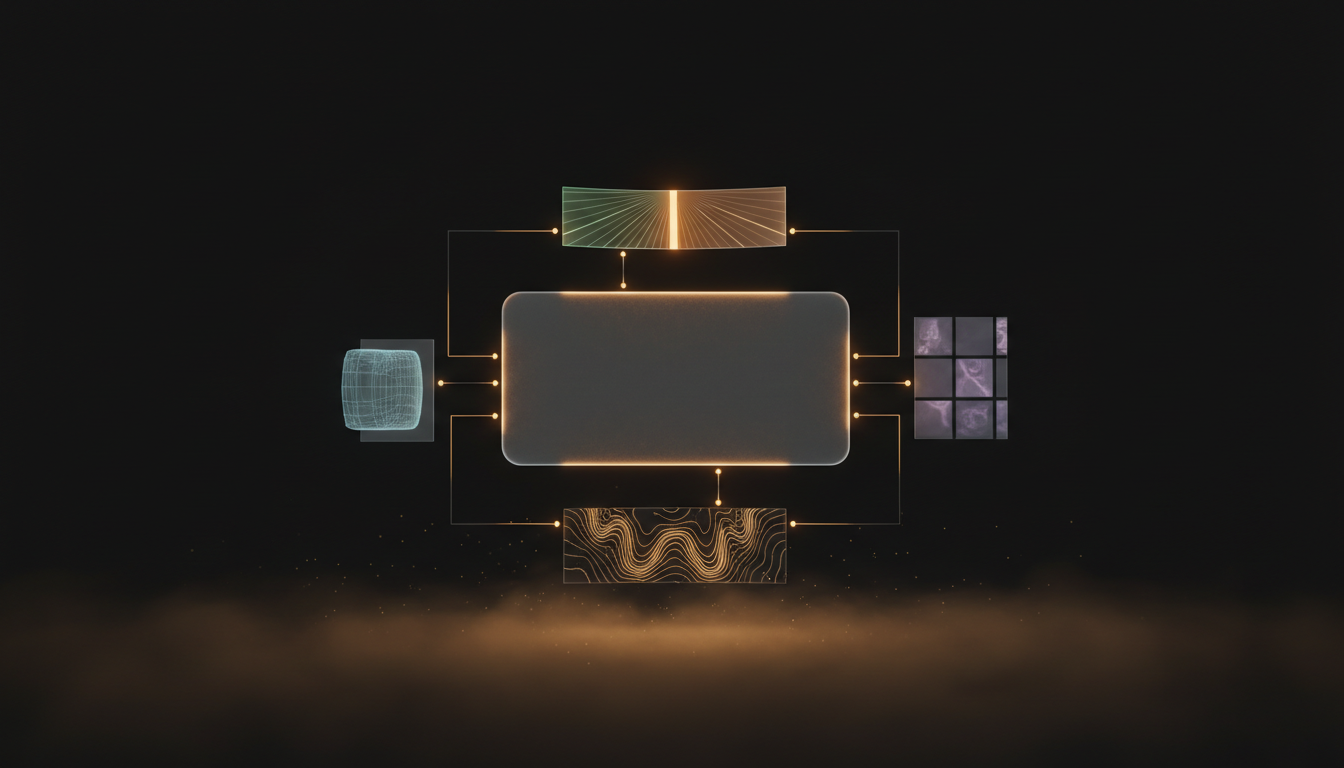
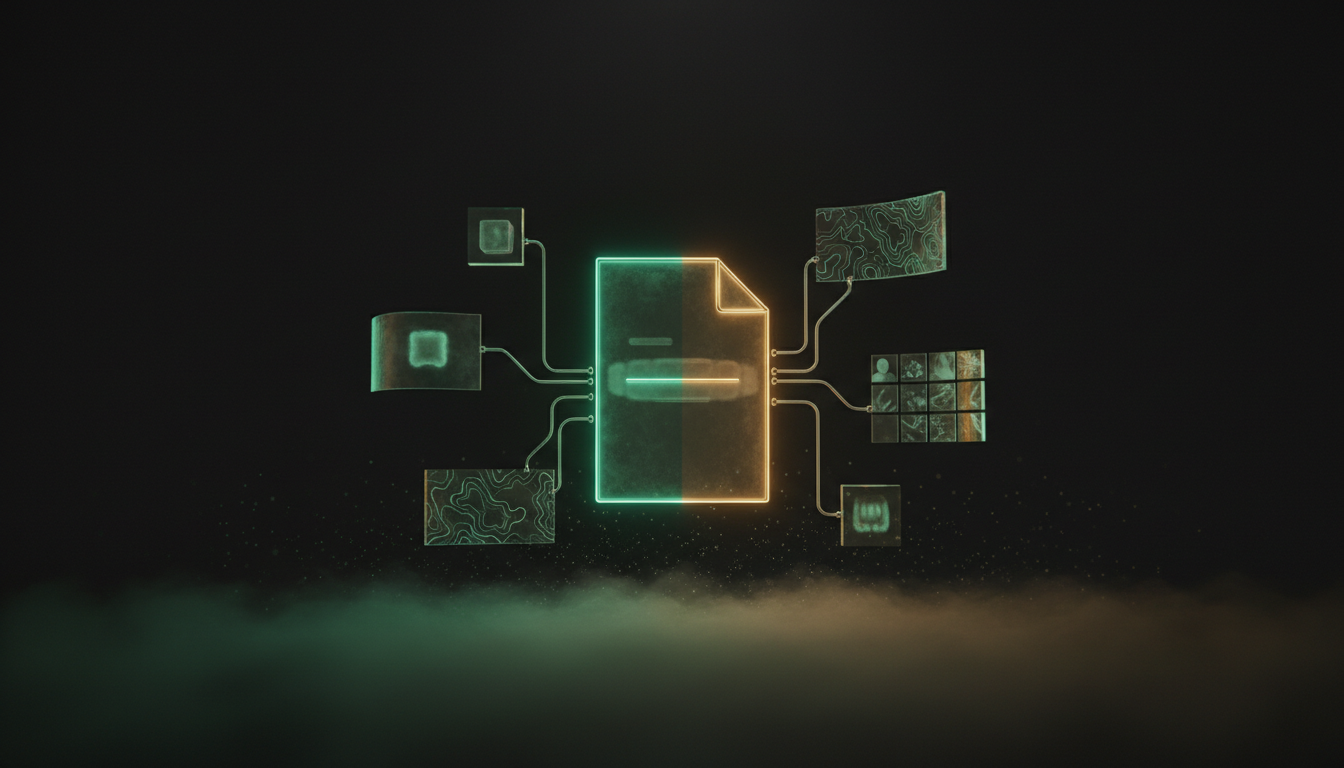
Make CDF an AIE+FDE flagship and refresh JobPilot to match the code
CDF: green+amber blended image; lead FDE projects and add an
AI-assisted-diagnosis card to AIE (below NPC, above CRM layer);
rewrite the blog around AI reading the patient first, doctor validates.

JobPilot: document the company watchlist, multi-page console, and
company cold outreach; correct the projects-page tech list (no FastAPI;
the database is a Google Sheet) and fix the repo link.

Changed region(s): [[0.1562, 0.2188, 0.75, 0.9062]]

diff --git a/src/data/disciplines.ts b/src/data/disciplines.ts
@@ -123,6 +123,20 @@ export const disciplines: Discipline[] = [
         ],
       },
       {
+        name: "CDF: AI-assisted diagnosis",
+        status: "In build",
+        oneLiner:
+          "The diagnostic layer where AI reads the patient before the doctor does: it analyses CBCT, radiographs, intraoral scans, and clinical photos to surface decay, missing teeth, restorations, and bone-support patterns, then routes every finding to a doctor validation queue. AI assists, the doctor signs.",
+        img: "/cdf-diagnostic-filter.png",
+        href: "/posts/cdf-diagnostic-filter",
+        highlights: [
+          "AI-assisted findings on 2D radiographs and CBCT: decay, missing teeth, restorations, bone levels",
+          "Every AI finding stays provisional until a doctor confirms it in a validation queue",
+          "Signed corrections feed a continuous-learning loop on the practice's own validated cases",
+          "Standardized bone-support visualization: current architecture against an ideal reference",
+        ],
+      },
+      {
         name: "CRM intelligence layer",
         status: "Design complete",
         oneLiner:
@@ -192,6 +206,20 @@ export const disciplines: Discipline[] = [
     ],
     projects: [
       {
+        name: "Centralized Diagnostic Filter",
+        status: "In build",
+        oneLiner:
+          "The current frontier: a standardized diagnostic operating system built with the practice founder, unifying every imaging modality (CBCT, intraoral scans, photos, a risk survey) into one AI-assisted, doctor-validated report. The hardest forward-deployed job there is, turning a clinician's thirty-year mental model into a buildable, phased system.",
+        img: "/cdf-diagnostic-filter.png",
+        href: "/posts/cdf-diagnostic-filter",
+        highlights: [
+          "Elicited a veteran clinician's diagnostic model into a phased, buildable spec",
+          "Fourteen input classes mapped to nine standardized report sections",
+          "A preserved 0-200 future-tooth-loss risk score across four bands",
+          "Governing rule: AI assists, doctors validate, every finding doctor-confirmed",
+        ],
+      },
+      {
         name: "Cowork Dashboard",
         status: "In production",
         oneLiner:
@@ -239,16 +267,6 @@ export const disciplines: Discipline[] = [
         highlights: [
           "Zero-trust access via Cloud IAP; adding a user is a UI action, not a gcloud command",
           "Success criterion: the engineer is no longer needed in the loop",
-        ],
-      },
-      {
-        name: "CDF: diagnostic operating system",
-        status: "Design complete",
-        oneLiner:
-          "Current frontier: a product design framework built with Hybridge's founder for unifying every imaging modality into AI-assisted, doctor-validated diagnostic reporting.",
-        highlights: [
-          "Fourteen input classes mapped to nine standardized report sections",
-          "Governing rule: AI assists, doctors validate",
         ],
       },
     ],
@@ -441,6 +459,7 @@ export const disciplines: Discipline[] = [
           "Open-sourced under MIT with a fork guide written to hand to an AI coding agent",
           "Tailors a resume and cover letter per match; every resume ships its own ATS report",
           "Grounded AI copilot with a per-job chat drawer over the live job description",
+          "A multi-page Next.js console behind IAP, the Google Sheet as the database, keyless CI/CD on Workload Identity Federation",
         ],
       },
       {

diff --git a/src/data/info.ts b/src/data/info.ts
@@ -814,19 +814,20 @@ export const info = {
       date: "2026 - Present",
       description:
         "My open-source job-hunt autopilot. It watches 160+ company boards directly, scores each role against my profile, and tailors a resume and cover letter per match, with a calibrated AI judge keeping the rewrites honest.",
-      link: "https://github.com/SampreethAvvari",
+      link: "https://github.com/SampreethAvvari/job-pilot",
       post: "/posts/jobpilot-v2",
       details: {
         summary:
-          "An open-source job-hunt platform: direct board watching, schema-locked LLM scoring, a calibrated resume judge with a truth-locked rewrite loop, and a Next.js console behind IAP. The one project that spans all four disciplines.",
+          "An open-source job-hunt platform: direct board watching across eleven sources, schema-locked LLM scoring, a calibrated resume judge with a truth-locked rewrite loop, recruiter outreach drafted but never auto-sent, and a multi-page Next.js console behind IAP. The one project that spans all four disciplines.",
         highlights: [
           "160+ company boards watched directly, not scraped through a job aggregator.",
           "Schema-locked LLM scoring per role, plus a per-job chat copilot grounded in the live description.",
           "A calibrated resume judge with a truth-locked rewrite loop, so a tailored resume never invents experience.",
+          "A company watchlist that auto-detects each board's ATS; recruiter and cold outreach drafted into Gmail (never auto-sent), and replies flagged the moment they land.",
           "Open-sourced under MIT with a fork guide written to hand to an AI coding agent.",
         ],
       },
-      tech: ["Next.js", "TypeScript", "FastAPI", "LLM scoring", "PostgreSQL", "Cloud IAP", "GitHub Actions"],
+      tech: ["Python", "Next.js", "Vertex AI Gemini", "LaTeX", "Google Sheets", "Cloud Run", "Cloud IAP", "GitHub Actions"],
       img_alt: "JobPilot open-source job-hunt autopilot",
       img_path: "/jobpilot-flagship.png",
     },

diff --git a/src/pages/posts/cdf-diagnostic-filter.md b/src/pages/posts/cdf-diagnostic-filter.md
@@ -1,31 +1,67 @@
 ---
-title: "Turning a clinician's diagnostic instinct into a system"
+title: "Teaching an AI to read the whole patient and lean toward a treatment, before the doctor does"
 date: "2026-06-20"
 layout: ../../layouts/PostLayout.astro
-description: "The Centralized Diagnostic Filter takes every input a complex restorative case generates (CBCT, scans, photos, a risk survey) and produces one standardized report, with the doctor validating every finding. This is the FDE problem at its hardest: translating a veteran clinician's mental model into a buildable, phased system. Phase 1 is in progress."
+description: "The Centralized Diagnostic Filter is HYBRIDGE's diagnostic operating system. AI reads every input a complex case generates (CBCT, intraoral scans, clinical photos, radiographs, a risk survey), surfaces the findings, scores future tooth-loss risk, and leans toward a treatment direction, all before the consult. Then the doctor validates every finding. This is the forward-deployed problem at its hardest: turning a veteran clinician's mental model into a buildable, phased system. Phase 1 is in build."
 img_path: "/cdf-diagnostic-filter.png"
 img_alt: "Centralized Diagnostic Filter: CBCT, intraoral scans, photographs, and a risk survey converging into one standardized diagnostic report"
 tag: "FDE"
 tone: "amber"
 stats:
-  - value: "4 phases"
-    label: "a de-risked roadmap from intake to AI findings; Phase 1 in progress"
-    tone: "amber"
-  - value: "0-200"
-    label: "future tooth-loss risk score across four bands, preserved from the existing model"
-    tone: "blue"
-  - value: "AI assists"
-    label: "doctors validate; every clinical finding is doctor-confirmed, by design"
+  - value: "AI reads first"
+    label: "decay, missing teeth, bone levels, prognosis, then a treatment leaning, before the consult"
     tone: "emerald"
+  - value: "0-200"
+    label: "future tooth-loss risk score across four bands, kept from the model the practice already trusts"
+    tone: "blue"
+  - value: "doctors validate"
+    label: "every AI finding stays provisional until a doctor signs it, wired into the architecture"
+    tone: "amber"
 ---
 
-Most of my projects start from a broken workflow. This one started from a clinician's head.
+Most of my projects start from a broken workflow. This one started from a clinician's head, and it is the only one I have built where the point is to have an AI read the patient before the doctor walks in.
 
-Dr. Frank LaMar, who founded the practice, has a way of reading a complex restorative case. He looks at the bone, the wear, the decay pattern, the patient's own words about pain and confidence, and he forms a judgment about whether the natural teeth are a dependable long-term bet or whether the honest conversation is about replacement. The Centralized Diagnostic Filter, CDF, is the attempt to turn that judgment into a standardized system: one that organizes every input a case generates, frames the findings the same way every time, and helps every doctor read the same document, without ever taking the diagnosis out of the doctor's hands.
+Dr. Frank LaMar, who founded the practice, has a way of reading a complex restorative case. He looks at the bone, the wear, the decay pattern, the patient's own words about pain and confidence, and he forms a judgment about whether the natural teeth are a dependable long-term bet or whether the honest conversation is about replacement. The Centralized Diagnostic Filter, CDF, is the attempt to put that first read into software: take every input a case generates, let the AI surface the findings and lean toward a treatment direction, and hand the doctor a finished assessment to confirm or correct, before the consultation even begins.
 
-That last part is the whole philosophy. The CDF is not AI that reads x-rays. It is a standardized restorative prognosis operating system, and its governing rule is simple: **AI assists, doctors validate.** Every clinical finding is provisional until a doctor signs it.
+That last part is the whole philosophy. The CDF is not AI that replaces the dentist, and it is not AI that just reads x-rays. It is a standardized restorative prognosis operating system, and its governing rule is simple: **AI assists, doctors validate.** The AI does the first pass. Every finding it produces is provisional until a doctor signs it.
 
 This was the hardest requirements job I have done. The other systems replaced a spreadsheet or a brittle script. This one had to extract a thirty-year mental model from the person who has it, and shape it into something a computer can carry without flattening the clinical nuance that makes it useful.
+
+## What "reading the patient" actually means
+
+A complex case is not one image. It is a pile of them, plus everything the patient says. The CDF pulls fourteen input classes into one place and analyses each for something specific:
+
+<div class="aside">
+
+- **CBCT scan**, and a panoramic view derived from that same scan, not a separate one: 3D bone, ridge architecture, available bone for implants.
+- **Intraoral scans** from the TRIOS scanner: missing teeth, wear, occlusion, supraeruption, crowding, collapse.
+- **Clinical photo series** (full-face smile, retracted frontal, occlusal, buccal, profile): aesthetics, recession, support loss, visible deterioration.
+- **Bitewings and periapicals**: decay, recurrent decay, restorations, root canals, structural breakdown.
+- **Risk survey**: pain, embarrassment, function, urgency, dry mouth, smoking, grinding, medical risk, and treatment goals.
+
+</div>
+
+The AI's job is to look across all of that and surface what a doctor would otherwise reconstruct by hand: where the decay is, which teeth are gone, what is restored, how much bone support is left, and how the upper and lower jaws are each holding up.
+
+## The output the doctor is meant to confirm
+
+The CDF walks into the consult having already done the reading. For every case it produces the same artifact: findings surfaced, risk scored, prognosis classified for each jaw, and a single treatment-direction leaning chosen from a fixed ladder.
+
+| Leaning | What it says |
+|---|---|
+| Conventional Viable | The natural teeth are a dependable long-term bet |
+| Conventional Compromised | Restoration is possible, but the risk factors are real |
+| Localized Implant Enhancement | A segment needs implants, the rest can stay |
+| Full Arch Consider | Replacement is worth the honest conversation |
+| Full Arch Likely | Replacement is the more predictable path |
+| Full Arch Highly Appropriate | Replacement is clearly the better long-term bet |
+
+It never states a final diagnosis. It proposes a direction, shows the evidence behind it, and leaves the call to the doctor. That is the difference between a treatment leaning and a treatment decision, and the whole system is built to respect it.
+
+<div class="stat-callout stat-amber">
+  <div class="stat-value">the doctor always confirms</div>
+  <div class="stat-label">The report suggests a leaning and surfaces the evidence for it. It never delivers a final diagnosis. That boundary is clinical and legal, and it is wired into the architecture, not left to discipline.</div>
+</div>
 
 ## Phase 1: own the front door first
 
@@ -35,7 +71,7 @@ Today the patient assessment lives in a third-party intake platform. The HIPAA p
 
 Phase 1 replaces all of that with a HYBRIDGE-owned intake on Google Cloud: one questionnaire with location-aware routing for all three markets, a premium patient-facing PDF delivered the moment the patient submits, automatic filing into the patient's Drive folder with no human in the loop, and self-serve admin so the practice's intake lead can edit questions, manage recipients per office, and add team members without filing a ticket. BAA-covered, audit-logged, role-based from the first commit.
 
-It reads less like a dental form and more like an Apple product. That is deliberate. A premium intake experience is the first thing a patient touches, and it sets the tone for everything the CDF does later.
+It reads less like a dental form and more like an Apple product. That is deliberate. A premium intake experience is the first thing a patient touches, and it is also the data plane the AI reads from later, so it has to be owned and structured from day one.
 
 ## The risk model, kept intact on purpose
 
@@ -52,9 +88,9 @@ It is twelve weighted questions. Smoking, uncontrolled diabetes, dry mouth, and 
 
 The score is not a diagnosis. It is a way to frame the restore-versus-replace conversation in a consistent, defensible way. Keeping the existing scale and bands means a patient who took the old questionnaire and the new one will not see a confusing numeric shift. Same clinical meaning, better instrument.
 
-## The system Phase 1 plugs into
+## The full report, in nine sections
 
-Phase 2 is the report Dr. Frank actually sketched: every patient produces the same artifact set, and every doctor reads the same document. It pulls fourteen input classes (the CBCT scan and a pano derived from that same scan, intraoral scans, a standardized clinical photo series, bitewings and periapicals, and the risk survey) into one visual report organized into nine sections.
+Phase 2 is the report Dr. Frank actually sketched: every patient produces the same artifact set, and every doctor reads the same document. Those fourteen inputs land in one visual report organized into nine sections.
 
 - **Executive Summary** answers four questions in plain language: what is happening, how severe, the long-term outlook, and the most reasonable treatment direction.
 - **Risk Scoring** carries the 0 to 200 score and a separate read on long-term predictability.
@@ -64,12 +100,7 @@ Phase 2 is the report Dr. Frank actually sketched: every patient produces the sa
 - **Functional Analysis** grades occlusal wear, guidance, posterior support, parafunction, and occlusal disease from none to severe.
 - **Prognosis** classifies the maxilla and mandible separately, because an upper jaw can be poor while the lower is fair, and that distinction changes the plan.
 - **Patient Impact** surfaces the emotional and functional drivers from the survey: this is the "why now" that a consultation lives or dies on.
-- **Treatment Leaning** suggests a direction (Conventional, through Localized Implant Enhancement, to Full Arch) without ever stating a final diagnosis. The doctor always confirms.
-
-<div class="stat-callout stat-amber">
-  <div class="stat-value">the doctor always confirms</div>
-  <div class="stat-label">The report suggests a treatment leaning and surfaces evidence for it. It never delivers a final diagnosis. That boundary is clinical and legal, and it is wired into the architecture, not left to discipline.</div>
-</div>
+- **Treatment Leaning** picks a direction off the ladder above without ever stating a final diagnosis. The doctor always confirms.
 
 ## The centerpiece: bone support, current versus ideal
 
@@ -81,7 +112,9 @@ There is a clinical insight underneath it that the system has to respect: not ev
 
 ## The AI layer, and where it is allowed to act
 
-Phase 3 is the differentiator, and it is also where the "AI assists, doctors validate" rule earns its keep. The AI does the reading: decay, missing teeth, restorations, and root-canal identification on 2D radiographs, and the bone-level mapping that feeds the visualization. But every AI output lands in a doctor validation queue and stays provisional until a doctor signs it. Those corrections are not discarded. They feed a continuous-learning loop on HYBRIDGE's own validated cases, so every signed case strengthens the next prediction. The data compounds, and it stays ours.
+Phase 3 is the part that makes the heading literal: the AI does the reading. Decay, missing teeth, restorations, and root-canal identification on 2D radiographs, plus the bone-level mapping that feeds the visualization. It assembles all of that into the draft assessment before anyone sits down with the patient.
+
+But every AI output lands in a doctor validation queue and stays provisional until a doctor signs it. Those corrections are not discarded. They feed a continuous-learning loop on HYBRIDGE's own validated cases, so every signed case strengthens the next prediction. The AI reads first, the doctor decides, and the doctor's decisions are what teach the AI. The data compounds, and it stays ours.
 
 That ownership is a principle, not an afterthought. Data, code, brand, and integrations live under HYBRIDGE accounts with no vendor lock-in, the schema is versioned and auditable from day one so Phase 4 plugs in without re-architecture, and Phase 4 itself is the integration layer: write-back into practice-management software so nobody re-keys data, outcome tracking that validates predictability against real results, multi-office rollout, and a pre-consult patient portal.
 
@@ -91,8 +124,8 @@ Each phase ships independently and delivers visible value without waiting on the
 
 | Phase | Scope | Status |
 |---|---|---|
-| 1: Questionnaire system | HYBRIDGE-owned premium intake, PDF, auto-distribution, self-serve admin | In progress |
-| 2: Diagnostic report (CDF v1) | One report from three inputs, consult dashboard, risk + treatment lean | Designed, queued |
+| 1: Questionnaire system | HYBRIDGE-owned premium intake, PDF, auto-distribution, self-serve admin | In build |
+| 2: Diagnostic report (CDF v1) | One report from fourteen inputs, consult dashboard, risk + treatment lean | Designed, queued |
 | 3: AI-assisted findings | Radiograph assist, bone-support visualization, doctor validation queue | Designed |
 | 4: Scale and integrations | PMS write-back, outcome tracking, multi-office, patient portal | Planned |
 
@@ -100,4 +133,4 @@ What is actually in place today, with no rounding up: the spec is written and th
 
 ## Why this one is the interesting problem
 
-The engineering here is real, but it is not the hard part. The hard part is the elicitation: sitting with a clinician, pulling the structure out of how he actually reasons, and deciding what a system should standardize versus what it must leave to the doctor. Get that boundary wrong in either direction and you have either a glorified form or a liability. Phasing it is how you de-risk it: own the front door first, prove the intake, then build the report, then let the AI read but never decide. The goal was never to automate the diagnosis. It was to make the diagnosis more consistent, more legible to the patient, and more predictable over time, with the doctor still holding the pen.
+The engineering here is real, but it is not the hard part. The hard part is the elicitation: sitting with a clinician, pulling the structure out of how he actually reasons, and deciding what a system should standardize versus what it must leave to the doctor. Get that boundary wrong in either direction and you have either a glorified form or a liability. Phasing it is how you de-risk it: own the front door first, prove the intake, then build the report, then let the AI read but never decide. The goal was never to automate the diagnosis. It was to have the AI do the first read so the doctor walks in already holding a consistent, legible, evidence-backed assessment, and still holds the pen.

diff --git a/src/pages/posts/jobpilot-v2.md b/src/pages/posts/jobpilot-v2.md
@@ -31,7 +31,7 @@ That is the whole daily ritual. No scrolling LinkedIn, no rereading the same rep
 
 ## Where the jobs actually come from
 
-The trick is still to skip the aggregator lag and read companies' own boards. JobPilot now watches **160+ company career pages directly** across seven ATS types (Greenhouse, Lever, Ashby, Workday, SmartRecruiters, Workable, Recruitee), plus RemoteOK, Hacker News "Who is Hiring," Adzuna, and LinkedIn through a pay-per-result Apify actor. Free sources get polled **every hour**; the full run (LinkedIn, tailoring, outreach, digest) fires **four times a day**.
+The trick is still to skip the aggregator lag and read companies' own boards. JobPilot now watches **160+ company career pages directly** across seven ATS types (Greenhouse, Lever, Ashby, Workday, SmartRecruiters, Workable, Recruitee), plus RemoteOK, Hacker News "Who is Hiring," Adzuna, and LinkedIn through a pay-per-result Apify actor. Adding a company is one row in a watchlist: I paste a name and a careers URL, a resolver works out which of the seven ATSs it runs on, and that board joins the next poll. Eleven source adapters, one normalized job behind them. Free sources get polled **every hour**; the full run (LinkedIn, tailoring, outreach, digest) fires **four times a day**.
 
 Two walls run before any compute is spent. A regex wall drops citizenship, clearance, and "cannot sponsor" postings, plus senior/staff/contract titles I'd never apply to. A new **US-only location wall** drops non-US roles entirely, and it knows that a state code beats a city-name collision, so "Vancouver, WA" stays and "Vancouver, BC" goes. A job posted on a company's board this morning is in my console by the next hourly run.
 
@@ -51,9 +51,13 @@ Up to ten attempts, early exit at 90, and the best attempt wins. A rewrite that 
 
 The biggest addition since launch is a grounded chat assistant. It loads a knowledge pack (my GitHub, this portfolio, my resumes, my profile) and answers through a guardrailed Vertex chat, so it talks about *my* search with real context instead of guessing. Every job row also has a **💬** that opens its own independent chat drawer with the live job description fetched on the spot, and I can attach a PDF or an image (a JD screenshot, a recruiter's note) straight into the conversation. There's also a manual-job tailor flow for the role a friend forwards that no board ever surfaced.
 
+## More than a table
+
+The console grew with the search. It is no longer one screen but a small app: a jobs registry I triage every morning, an applied funnel that advances itself as replies arrive, a replies feed, a resume armory that shows each of the four variants with its live ATS score and a one-click rebuild, a companies watchlist with per-board health, and an outreach console where the drafts wait. The Google Sheet underneath is still the database, so I can fix anything from my phone and the console just reflects it.
+
 ## It never sends anything on its own
 
-Two rules I refuse to ship without. The system **never sends an email by itself**: recruiter outreach is looked up through Apollo, written, and dropped into my Gmail drafts for me to send. And automation **never overwrites my manual edits**; it only moves a status forward.
+Two rules I refuse to ship without. The system **never sends an email by itself**: recruiter outreach is looked up through Apollo, written, and dropped into my Gmail drafts for me to send. For a company on my watchlist I have not applied to yet, it can find two or three hiring contacts and draft a cold intro the same way. Every one waits in drafts until I read it and hit send. And automation **never overwrites my manual edits**; it only moves a status forward.
 
 The reply tracking got smarter too. An hourly inbox watcher reads the last couple of days across every inbox I connect, and a genuine next step (interview invite, scheduling request, assessment) triggers an **instant alert email** telling me which company replied in which inbox, with a link to the exact message. Rejections quietly update the tracker; "thanks for applying" autoresponders are ignored.
 